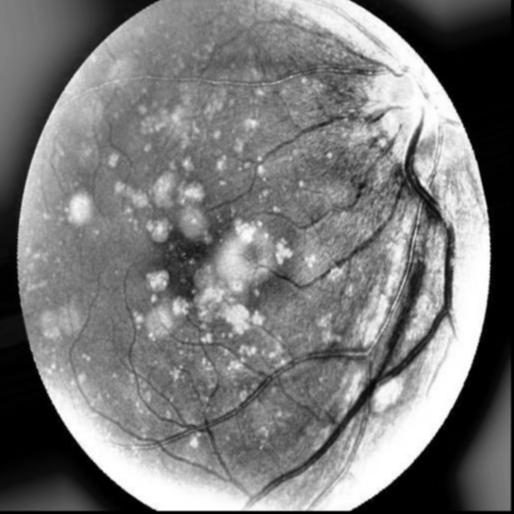
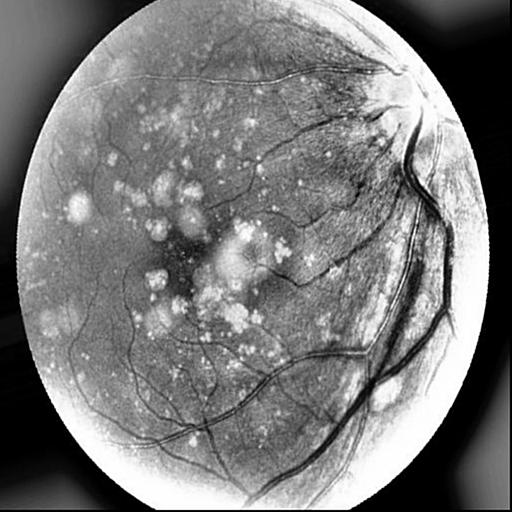
experimenting with different filtering

diff --git a/noise-removal.py b/noise-removal.py
@@ -5,34 +5,62 @@
     Noise Removal Portion
     Resources: Kaggle, for Images
                https://www.kaggle.com/datasets/kssanjaynithish03/retinal-fundus-images/data
+               Researchgate.net, for 5x5 Gaussian Filter
+               https://www.researchgate.net/figure/Discrete-approximation-of-the-Gaussian-kernels-3x3-5x5-7x7_fig2_325768087
+               Sharpening Images
+               https://ai.stanford.edu/~syyeung/cvweb/tutorial1.html
 """
 
 from PIL import Image
 import numpy as np
 import matplotlib.pyplot as plt
 import math
+import time
 import os
 
 image_dir = 'images/original/'
 grayscale_dir = 'images/grayscale/'
 output_dir = 'images/filtered/'
 
+# Averaging Filter
+a_filter = [[1.0 / 9.0] * 3] * 3
+# Gaussian Filter
 g_filter = [
     [1.0 / 16.0, 2.0 / 16.0, 1.0 / 16.0],
     [2.0 / 16.0, 4.0 / 16.0, 2.0 / 16.0],
     [1.0 / 16.0, 2.0 / 16.0, 1.0 / 16.0]
 ]
+# Larger Gaussian Filter
+g_filter_large = [
+    [1.0/273, 4.0/273, 7.0/273, 4.0/273, 1.0/273],
+    [4.0/273, 16.0/273, 26.0/273, 16.0/273, 4.0/273],
+    [7.0/273, 26.0/273, 41.0/273, 26.0/273, 7.0/273],
+    [4.0/273, 16.0/273, 26.0/273, 16.0/273, 4.0/273],
+    [1.0/273, 4.0/273, 7.0/273, 4.0/273, 1.0/273]
+]
+
+# Sharpened Filter
+s_filter = [
+    [-1.0/9, -1.0/9, -1.0/9],
+    [-1.0/9, 2.0 - 1.0/9, -1.0/9],
+    [-1.0/9, -1.0/9, -1.0/9]
+]
+
+# Extra Sharpened Filter
+es_filter = [
+    [-2.0/9, -2.0/9, -2.0/9],
+    [-2.0/9, 3.0 - 2.0/9, -2.0/9],
+    [-2.0/9, -2.0/9, -2.0/9]
+]
 
 def filter_2d(image_file, filter_2d):
-    
     image = Image.open(grayscale_dir + image_file)
-    output_size = (image.size[0] + ((len(filter_2d) // 2) * 2), image.size[1] + ((len(filter_2d) // 2) * 2))
-    output = Image.new(mode='L', size=output_size)
+    output = Image.new(mode='L', size=(image.size[0], image.size[1]))
     image_pixels = image.load()
     output_pixels = output.load()
 
-    for i in range(output_size[0]):
-        for j in range(output_size[1]):
+    for i in range(image.size[0]):
+        for j in range(image.size[1]):
             filter_sum = 0.0
             for k in range(len(filter_2d)):
                 for l in range(len(filter_2d[0])):
@@ -44,9 +72,32 @@ def filter_2d(image_file, filter_2d):
     image.close()
     output.close()
 
+def filter_2d_obj(image_obj, filter_2d):
+    image_pixels = image.load()
+    output = Image.new(mode='L', size=(image.size[0], image.size[1]))
+    output_pixels = output.load()
+
+    for i in range(image.size[0]):
+        for j in range(image.size[1]):
+            filter_sum = 0.0
+            for k in range(len(filter_2d)):
+                for l in range(len(filter_2d[0])):
+                    if i + k >= 0 and i + k < image.size[0] and j + l >= 0 and j + l < image.size[1]:
+                        filter_sum += image_pixels[i + k, j + l] * filter_2d[k][l]
+            output_pixels[i,j] = (int) (filter_sum)
+    return output
+
+start_time = time.time()
 print(f'Fetching from {image_dir}')
 for image_file in os.listdir(image_dir):
     image = Image.open(image_dir + image_file).convert('L')
     image.save(grayscale_dir + image_file)
-    filter_2d(image_file, g_filter)
+
+    # Running it through a gaussian filter first
+    image = filter_2d_obj(image, g_filter)
+    # Then sharpen
+    image = filter_2d_obj(image, es_filter)
+
+    image.save(output_dir + image_file)
     image.close()
+print(f'Process took: {time.time() - start_time:.4f} seconds!')
